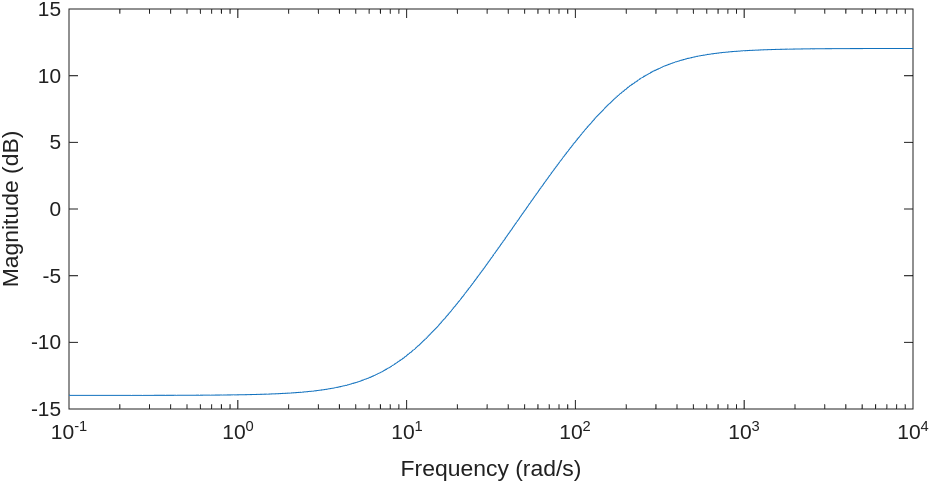
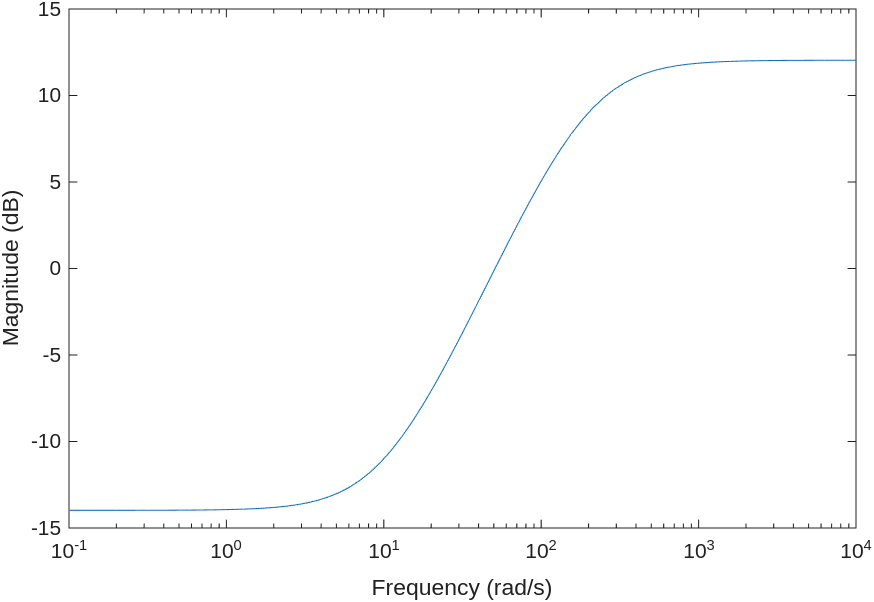
fix important uncertainty bug

diff --git a/robust_analysis.m b/robust_analysis.m
@@ -41,10 +41,10 @@ W_u.y = "z2";
 
 %% Uncertainity weights
 
-W_i1 = (1/16/pi*s + 0.) / (1/64/pi*s + 1);
+W_i1 = (1/16/pi*s + 0.2) / (1/64/pi*s + 1);
 W_i2 = W_i1;
 
-W_o1 = (0.05*s + 0.25) / (0.01*s + 1);
+W_o1 = (0.05*s + 0.25) / (0.1*s + 1);
 W_o2 = W_o1;
 
 W_i = [W_i1 0; 0 W_i2];
@@ -67,11 +67,19 @@ delta_o = [ultidyn("delta_o1", 1) 0; 0 ultidyn("delta_o2", 1)];
 
 G_p = (eye(2)+W_o*delta_o) * G * (eye(2)+W_i*delta_i);
 
-plot_singular_values = false;
+plot_singular_values = true;
+[sv, wout] = sigma(G_p);
+
 if plot_singular_values
     figure;
     sigma(G_p);
     title('');
+
+    figure;
+    loglog(wout, sv(1, :)./sv(2, :));
+    title('')
+    xlabel("Frequency(rad/s)");
+    ylabel('Condition number')
 end
 
 %% generalized plant
